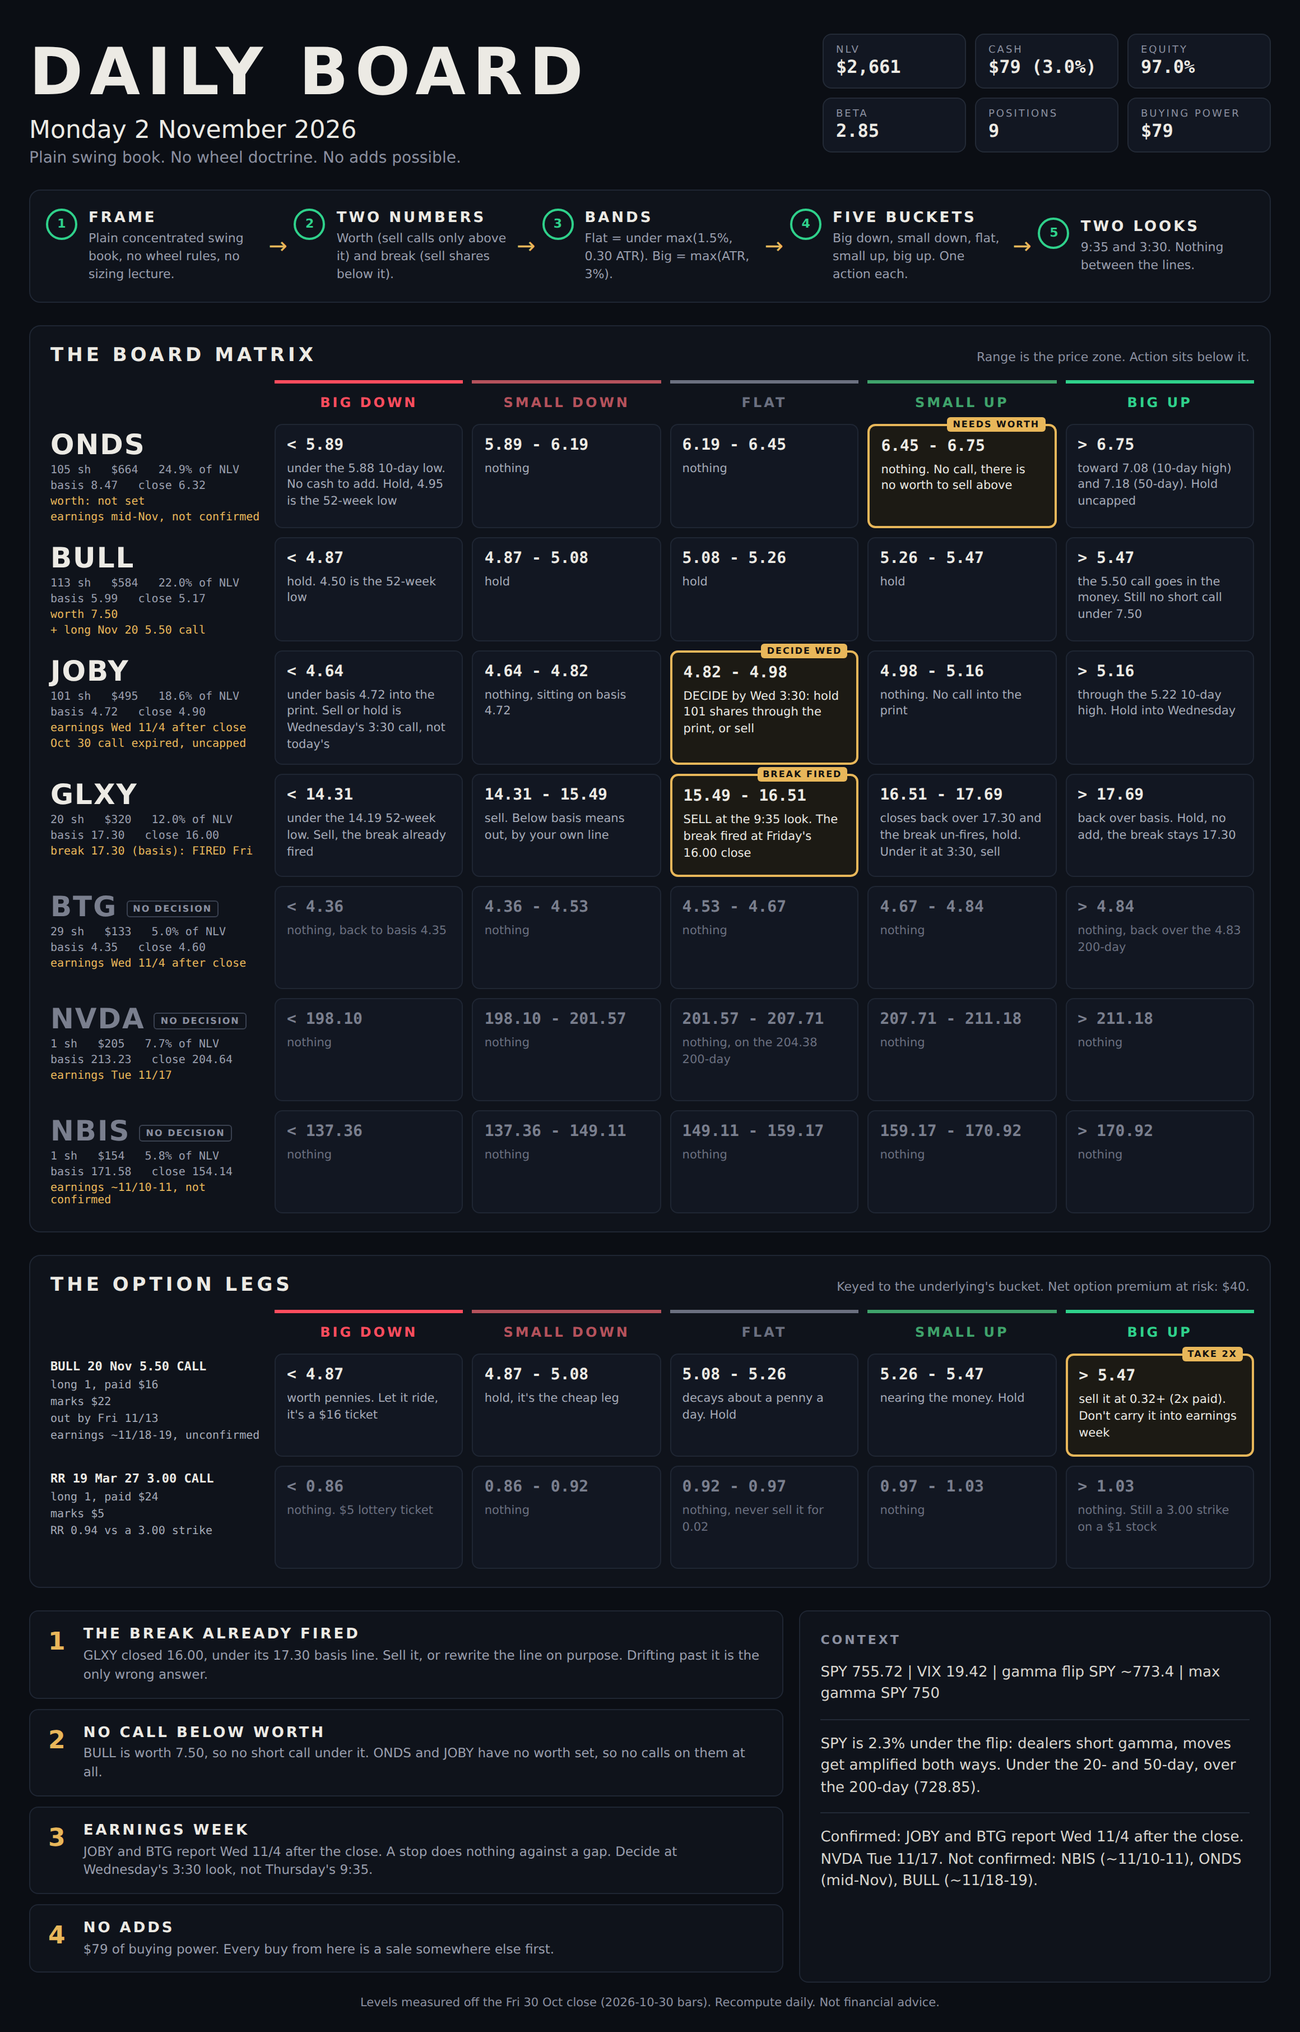
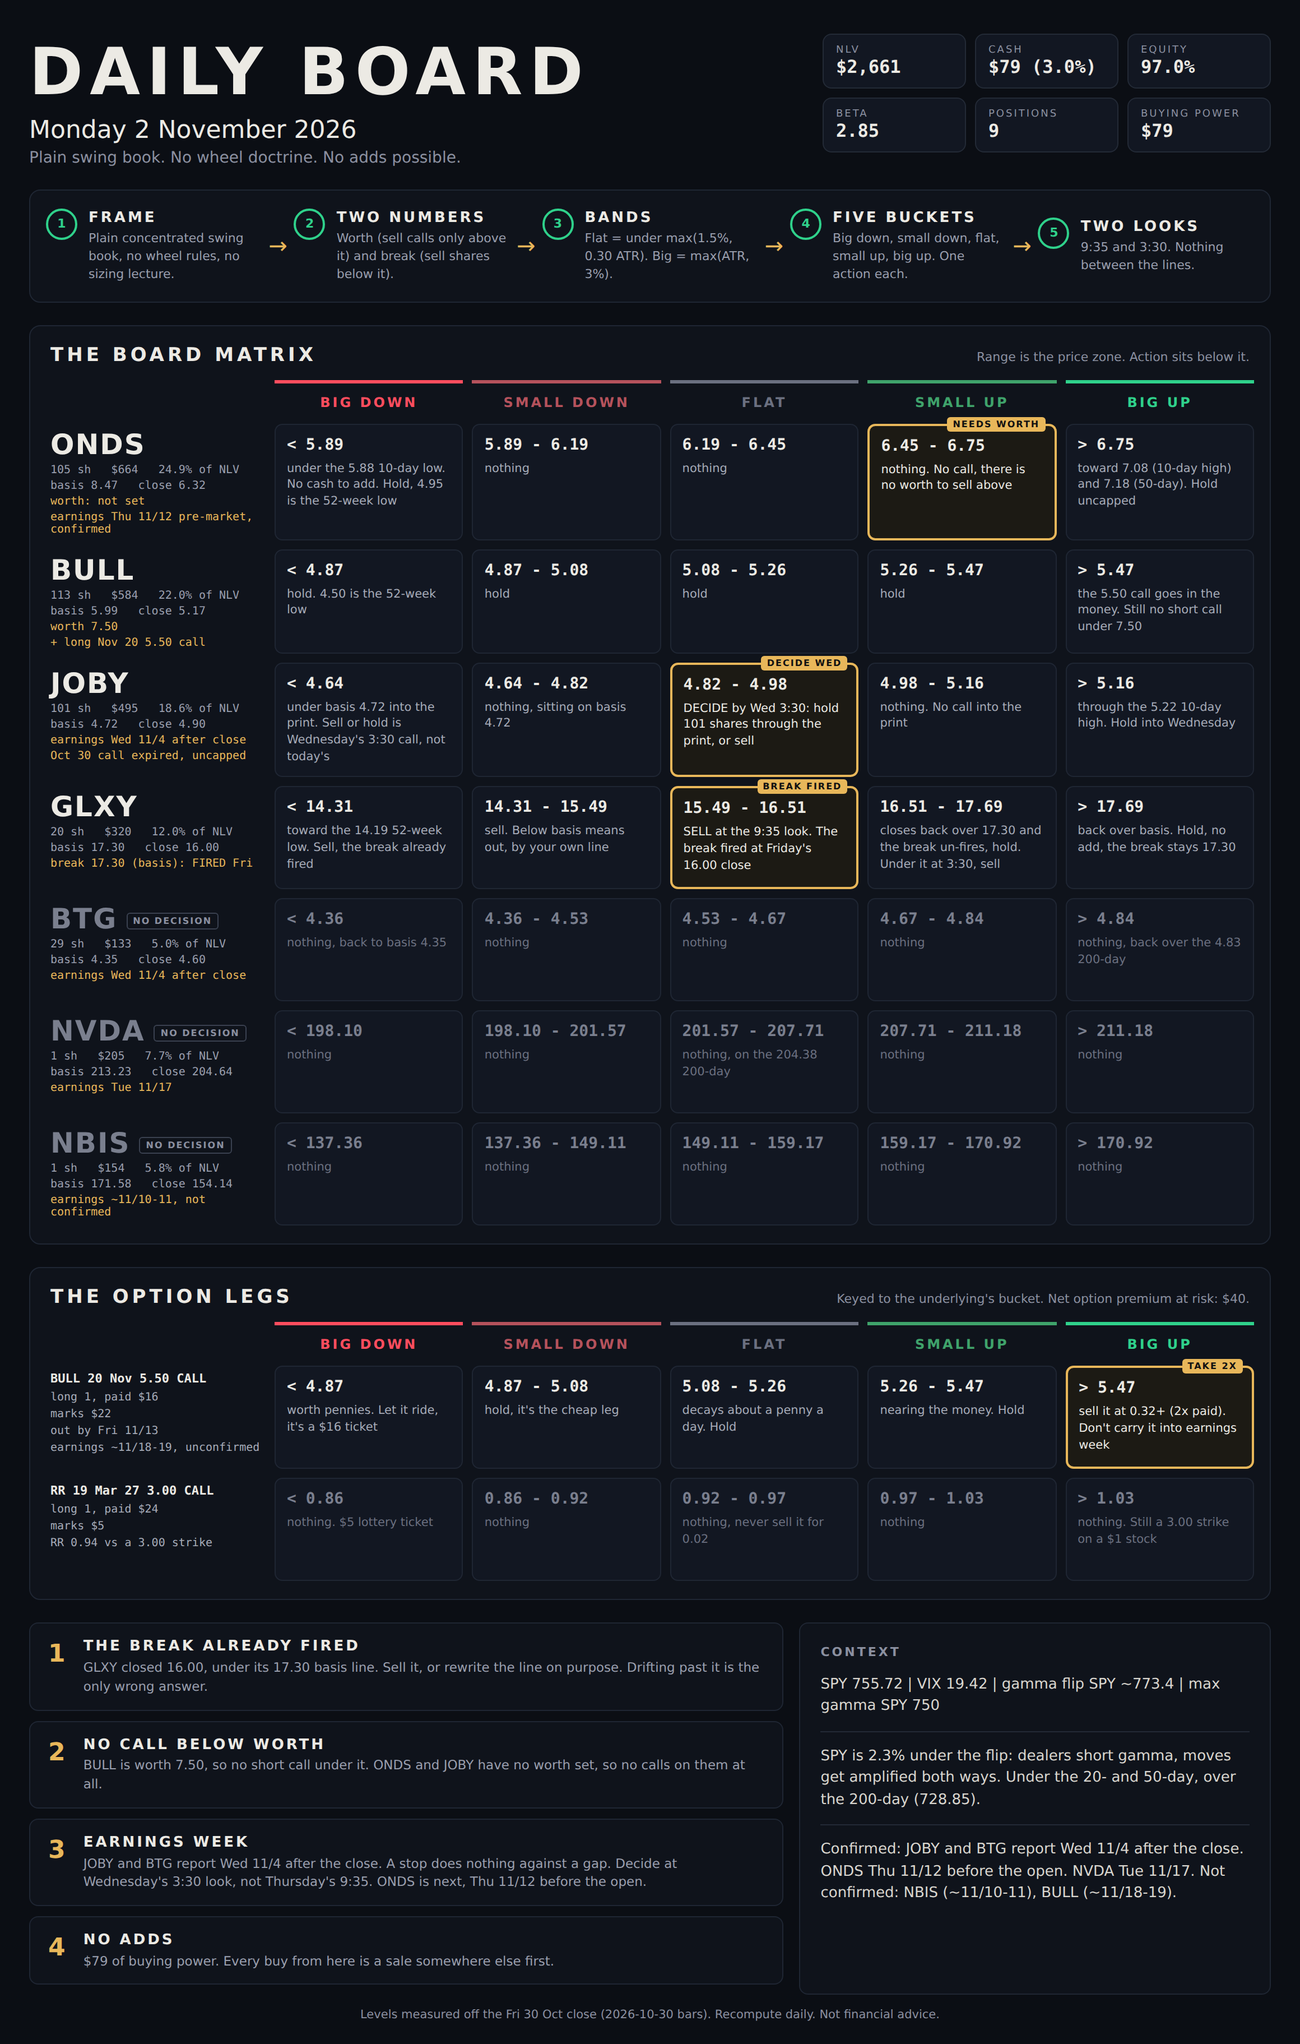
daily_board: Mon 11/02 refresh, ONDS earnings confirmed Thu 11/12 pre-market, GLXY big-down text fixed

diff --git a/data/daily-board/2026-11-02/board.html b/data/daily-board/2026-11-02/board.html
@@ -39,9 +39,9 @@ h1 { font-size: 58px; letter-spacing: 6px; margin: 0; color: #eceae4; font-weigh
 <div class="top"><div><h1>DAILY BOARD</h1><div class="date">Monday 2 November 2026</div><div class="sub">Plain swing book. No wheel doctrine. No adds possible.</div></div><div class="stats"><div class="stat"><span>NLV</span><b>$2,661</b></div><div class="stat"><span>CASH</span><b>$79 (3.0%)</b></div><div class="stat"><span>EQUITY</span><b>97.0%</b></div><div class="stat"><span>BETA</span><b>2.85</b></div><div class="stat"><span>POSITIONS</span><b>9</b></div><div class="stat"><span>BUYING POWER</span><b>$79</b></div></div></div>
 <div class="panel steps"><div class="step"><span class="num">1</span><div><b>FRAME</b><br>Plain concentrated swing book, no wheel rules, no sizing lecture.</div></div><span class="arrow">&rarr;</span><div class="step"><span class="num">2</span><div><b>TWO NUMBERS</b><br>Worth (sell calls only above it) and break (sell shares below it).</div></div><span class="arrow">&rarr;</span><div class="step"><span class="num">3</span><div><b>BANDS</b><br>Flat = under max(1.5%, 0.30 ATR). Big = max(ATR, 3%).</div></div><span class="arrow">&rarr;</span><div class="step"><span class="num">4</span><div><b>FIVE BUCKETS</b><br>Big down, small down, flat, small up, big up. One action each.</div></div><span class="arrow">&rarr;</span><div class="step"><span class="num">5</span><div><b>TWO LOOKS</b><br>9:35 and 3:30. Nothing between the lines.</div></div></div>
 <div class="panel"><div class="ph"><b>THE BOARD MATRIX</b><span>Range is the price zone. Action sits below it.</span></div>
-<div class="grid"><div></div><div class="bh" style="--c:#FF4D5E">BIG DOWN</div><div class="bh" style="--c:#B5525C">SMALL DOWN</div><div class="bh" style="--c:#6B7080">FLAT</div><div class="bh" style="--c:#3FA36B">SMALL UP</div><div class="bh" style="--c:#2FD18B">BIG UP</div><div class="lab"><div class="tk">ONDS</div><div class="meta">105 sh &nbsp; $664 &nbsp; 24.9% of NLV</div><div class="meta">basis 8.47 &nbsp; close 6.32</div><div class="note">worth: not set</div><div class="note">earnings mid-Nov, not confirmed</div></div><div class="cell"><div class="rng">&lt; 5.89</div><div class="act">under the 5.88 10-day low. No cash to add. Hold, 4.95 is the 52-week low</div></div><div class="cell"><div class="rng">5.89 - 6.19</div><div class="act">nothing</div></div><div class="cell"><div class="rng">6.19 - 6.45</div><div class="act">nothing</div></div><div class="cell hl"><span class="flag">NEEDS WORTH</span><div class="rng">6.45 - 6.75</div><div class="act">nothing. No call, there is no worth to sell above</div></div><div class="cell"><div class="rng">&gt; 6.75</div><div class="act">toward 7.08 (10-day high) and 7.18 (50-day). Hold uncapped</div></div><div class="lab"><div class="tk">BULL</div><div class="meta">113 sh &nbsp; $584 &nbsp; 22.0% of NLV</div><div class="meta">basis 5.99 &nbsp; close 5.17</div><div class="note">worth 7.50</div><div class="note">+ long Nov 20 5.50 call</div></div><div class="cell"><div class="rng">&lt; 4.87</div><div class="act">hold. 4.50 is the 52-week low</div></div><div class="cell"><div class="rng">4.87 - 5.08</div><div class="act">hold</div></div><div class="cell"><div class="rng">5.08 - 5.26</div><div class="act">hold</div></div><div class="cell"><div class="rng">5.26 - 5.47</div><div class="act">hold</div></div><div class="cell"><div class="rng">&gt; 5.47</div><div class="act">the 5.50 call goes in the money. Still no short call under 7.50</div></div><div class="lab"><div class="tk">JOBY</div><div class="meta">101 sh &nbsp; $495 &nbsp; 18.6% of NLV</div><div class="meta">basis 4.72 &nbsp; close 4.90</div><div class="note">earnings Wed 11/4 after close</div><div class="note">Oct 30 call expired, uncapped</div></div><div class="cell"><div class="rng">&lt; 4.64</div><div class="act">under basis 4.72 into the print. Sell or hold is Wednesday&#x27;s 3:30 call, not today&#x27;s</div></div><div class="cell"><div class="rng">4.64 - 4.82</div><div class="act">nothing, sitting on basis 4.72</div></div><div class="cell hl"><span class="flag">DECIDE WED</span><div class="rng">4.82 - 4.98</div><div class="act">DECIDE by Wed 3:30: hold 101 shares through the print, or sell</div></div><div class="cell"><div class="rng">4.98 - 5.16</div><div class="act">nothing. No call into the print</div></div><div class="cell"><div class="rng">&gt; 5.16</div><div class="act">through the 5.22 10-day high. Hold into Wednesday</div></div><div class="lab"><div class="tk">GLXY</div><div class="meta">20 sh &nbsp; $320 &nbsp; 12.0% of NLV</div><div class="meta">basis 17.30 &nbsp; close 16.00</div><div class="note">break 17.30 (basis): FIRED Fri</div></div><div class="cell"><div class="rng">&lt; 14.31</div><div class="act">under the 14.19 52-week low. Sell, the break already fired</div></div><div class="cell"><div class="rng">14.31 - 15.49</div><div class="act">sell. Below basis means out, by your own line</div></div><div class="cell hl"><span class="flag">BREAK FIRED</span><div class="rng">15.49 - 16.51</div><div class="act">SELL at the 9:35 look. The break fired at Friday&#x27;s 16.00 close</div></div><div class="cell"><div class="rng">16.51 - 17.69</div><div class="act">closes back over 17.30 and the break un-fires, hold. Under it at 3:30, sell</div></div><div class="cell"><div class="rng">&gt; 17.69</div><div class="act">back over basis. Hold, no add, the break stays 17.30</div></div><div class="lab mute"><div class="tk">BTG<span class="badge">NO DECISION</span></div><div class="meta">29 sh &nbsp; $133 &nbsp; 5.0% of NLV</div><div class="meta">basis 4.35 &nbsp; close 4.60</div><div class="note">earnings Wed 11/4 after close</div></div><div class="cell mute"><div class="rng">&lt; 4.36</div><div class="act">nothing, back to basis 4.35</div></div><div class="cell mute"><div class="rng">4.36 - 4.53</div><div class="act">nothing</div></div><div class="cell mute"><div class="rng">4.53 - 4.67</div><div class="act">nothing</div></div><div class="cell mute"><div class="rng">4.67 - 4.84</div><div class="act">nothing</div></div><div class="cell mute"><div class="rng">&gt; 4.84</div><div class="act">nothing, back over the 4.83 200-day</div></div><div class="lab mute"><div class="tk">NVDA<span class="badge">NO DECISION</span></div><div class="meta">1 sh &nbsp; $205 &nbsp; 7.7% of NLV</div><div class="meta">basis 213.23 &nbsp; close 204.64</div><div class="note">earnings Tue 11/17</div></div><div class="cell mute"><div class="rng">&lt; 198.10</div><div class="act">nothing</div></div><div class="cell mute"><div class="rng">198.10 - 201.57</div><div class="act">nothing</div></div><div class="cell mute"><div class="rng">201.57 - 207.71</div><div class="act">nothing, on the 204.38 200-day</div></div><div class="cell mute"><div class="rng">207.71 - 211.18</div><div class="act">nothing</div></div><div class="cell mute"><div class="rng">&gt; 211.18</div><div class="act">nothing</div></div><div class="lab mute"><div class="tk">NBIS<span class="badge">NO DECISION</span></div><div class="meta">1 sh &nbsp; $154 &nbsp; 5.8% of NLV</div><div class="meta">basis 171.58 &nbsp; close 154.14</div><div class="note">earnings ~11/10-11, not confirmed</div></div><div class="cell mute"><div class="rng">&lt; 137.36</div><div class="act">nothing</div></div><div class="cell mute"><div class="rng">137.36 - 149.11</div><div class="act">nothing</div></div><div class="cell mute"><div class="rng">149.11 - 159.17</div><div class="act">nothing</div></div><div class="cell mute"><div class="rng">159.17 - 170.92</div><div class="act">nothing</div></div><div class="cell mute"><div class="rng">&gt; 170.92</div><div class="act">nothing</div></div></div></div>
+<div class="grid"><div></div><div class="bh" style="--c:#FF4D5E">BIG DOWN</div><div class="bh" style="--c:#B5525C">SMALL DOWN</div><div class="bh" style="--c:#6B7080">FLAT</div><div class="bh" style="--c:#3FA36B">SMALL UP</div><div class="bh" style="--c:#2FD18B">BIG UP</div><div class="lab"><div class="tk">ONDS</div><div class="meta">105 sh &nbsp; $664 &nbsp; 24.9% of NLV</div><div class="meta">basis 8.47 &nbsp; close 6.32</div><div class="note">worth: not set</div><div class="note">earnings Thu 11/12 pre-market, confirmed</div></div><div class="cell"><div class="rng">&lt; 5.89</div><div class="act">under the 5.88 10-day low. No cash to add. Hold, 4.95 is the 52-week low</div></div><div class="cell"><div class="rng">5.89 - 6.19</div><div class="act">nothing</div></div><div class="cell"><div class="rng">6.19 - 6.45</div><div class="act">nothing</div></div><div class="cell hl"><span class="flag">NEEDS WORTH</span><div class="rng">6.45 - 6.75</div><div class="act">nothing. No call, there is no worth to sell above</div></div><div class="cell"><div class="rng">&gt; 6.75</div><div class="act">toward 7.08 (10-day high) and 7.18 (50-day). Hold uncapped</div></div><div class="lab"><div class="tk">BULL</div><div class="meta">113 sh &nbsp; $584 &nbsp; 22.0% of NLV</div><div class="meta">basis 5.99 &nbsp; close 5.17</div><div class="note">worth 7.50</div><div class="note">+ long Nov 20 5.50 call</div></div><div class="cell"><div class="rng">&lt; 4.87</div><div class="act">hold. 4.50 is the 52-week low</div></div><div class="cell"><div class="rng">4.87 - 5.08</div><div class="act">hold</div></div><div class="cell"><div class="rng">5.08 - 5.26</div><div class="act">hold</div></div><div class="cell"><div class="rng">5.26 - 5.47</div><div class="act">hold</div></div><div class="cell"><div class="rng">&gt; 5.47</div><div class="act">the 5.50 call goes in the money. Still no short call under 7.50</div></div><div class="lab"><div class="tk">JOBY</div><div class="meta">101 sh &nbsp; $495 &nbsp; 18.6% of NLV</div><div class="meta">basis 4.72 &nbsp; close 4.90</div><div class="note">earnings Wed 11/4 after close</div><div class="note">Oct 30 call expired, uncapped</div></div><div class="cell"><div class="rng">&lt; 4.64</div><div class="act">under basis 4.72 into the print. Sell or hold is Wednesday&#x27;s 3:30 call, not today&#x27;s</div></div><div class="cell"><div class="rng">4.64 - 4.82</div><div class="act">nothing, sitting on basis 4.72</div></div><div class="cell hl"><span class="flag">DECIDE WED</span><div class="rng">4.82 - 4.98</div><div class="act">DECIDE by Wed 3:30: hold 101 shares through the print, or sell</div></div><div class="cell"><div class="rng">4.98 - 5.16</div><div class="act">nothing. No call into the print</div></div><div class="cell"><div class="rng">&gt; 5.16</div><div class="act">through the 5.22 10-day high. Hold into Wednesday</div></div><div class="lab"><div class="tk">GLXY</div><div class="meta">20 sh &nbsp; $320 &nbsp; 12.0% of NLV</div><div class="meta">basis 17.30 &nbsp; close 16.00</div><div class="note">break 17.30 (basis): FIRED Fri</div></div><div class="cell"><div class="rng">&lt; 14.31</div><div class="act">toward the 14.19 52-week low. Sell, the break already fired</div></div><div class="cell"><div class="rng">14.31 - 15.49</div><div class="act">sell. Below basis means out, by your own line</div></div><div class="cell hl"><span class="flag">BREAK FIRED</span><div class="rng">15.49 - 16.51</div><div class="act">SELL at the 9:35 look. The break fired at Friday&#x27;s 16.00 close</div></div><div class="cell"><div class="rng">16.51 - 17.69</div><div class="act">closes back over 17.30 and the break un-fires, hold. Under it at 3:30, sell</div></div><div class="cell"><div class="rng">&gt; 17.69</div><div class="act">back over basis. Hold, no add, the break stays 17.30</div></div><div class="lab mute"><div class="tk">BTG<span class="badge">NO DECISION</span></div><div class="meta">29 sh &nbsp; $133 &nbsp; 5.0% of NLV</div><div class="meta">basis 4.35 &nbsp; close 4.60</div><div class="note">earnings Wed 11/4 after close</div></div><div class="cell mute"><div class="rng">&lt; 4.36</div><div class="act">nothing, back to basis 4.35</div></div><div class="cell mute"><div class="rng">4.36 - 4.53</div><div class="act">nothing</div></div><div class="cell mute"><div class="rng">4.53 - 4.67</div><div class="act">nothing</div></div><div class="cell mute"><div class="rng">4.67 - 4.84</div><div class="act">nothing</div></div><div class="cell mute"><div class="rng">&gt; 4.84</div><div class="act">nothing, back over the 4.83 200-day</div></div><div class="lab mute"><div class="tk">NVDA<span class="badge">NO DECISION</span></div><div class="meta">1 sh &nbsp; $205 &nbsp; 7.7% of NLV</div><div class="meta">basis 213.23 &nbsp; close 204.64</div><div class="note">earnings Tue 11/17</div></div><div class="cell mute"><div class="rng">&lt; 198.10</div><div class="act">nothing</div></div><div class="cell mute"><div class="rng">198.10 - 201.57</div><div class="act">nothing</div></div><div class="cell mute"><div class="rng">201.57 - 207.71</div><div class="act">nothing, on the 204.38 200-day</div></div><div class="cell mute"><div class="rng">207.71 - 211.18</div><div class="act">nothing</div></div><div class="cell mute"><div class="rng">&gt; 211.18</div><div class="act">nothing</div></div><div class="lab mute"><div class="tk">NBIS<span class="badge">NO DECISION</span></div><div class="meta">1 sh &nbsp; $154 &nbsp; 5.8% of NLV</div><div class="meta">basis 171.58 &nbsp; close 154.14</div><div class="note">earnings ~11/10-11, not confirmed</div></div><div class="cell mute"><div class="rng">&lt; 137.36</div><div class="act">nothing</div></div><div class="cell mute"><div class="rng">137.36 - 149.11</div><div class="act">nothing</div></div><div class="cell mute"><div class="rng">149.11 - 159.17</div><div class="act">nothing</div></div><div class="cell mute"><div class="rng">159.17 - 170.92</div><div class="act">nothing</div></div><div class="cell mute"><div class="rng">&gt; 170.92</div><div class="act">nothing</div></div></div></div>
 <div class="panel"><div class="ph"><b>THE OPTION LEGS</b><span>Keyed to the underlying's bucket. Net option premium at risk: $40.</span></div>
 <div class="grid"><div></div><div class="bh" style="--c:#FF4D5E">BIG DOWN</div><div class="bh" style="--c:#B5525C">SMALL DOWN</div><div class="bh" style="--c:#6B7080">FLAT</div><div class="bh" style="--c:#3FA36B">SMALL UP</div><div class="bh" style="--c:#2FD18B">BIG UP</div><div class="olab"><b>BULL 20 Nov 5.50 CALL</b><br>long 1, paid $16<br>marks $22<br>out by Fri 11/13<br>earnings ~11/18-19, unconfirmed</div><div class="cell"><div class="rng">&lt; 4.87</div><div class="act">worth pennies. Let it ride, it&#x27;s a $16 ticket</div></div><div class="cell"><div class="rng">4.87 - 5.08</div><div class="act">hold, it&#x27;s the cheap leg</div></div><div class="cell"><div class="rng">5.08 - 5.26</div><div class="act">decays about a penny a day. Hold</div></div><div class="cell"><div class="rng">5.26 - 5.47</div><div class="act">nearing the money. Hold</div></div><div class="cell hl"><span class="flag">TAKE 2X</span><div class="rng">&gt; 5.47</div><div class="act">sell it at 0.32+ (2x paid). Don&#x27;t carry it into earnings week</div></div><div class="olab"><b>RR 19 Mar 27 3.00 CALL</b><br>long 1, paid $24<br>marks $5<br>RR 0.94 vs a 3.00 strike</div><div class="cell mute"><div class="rng">&lt; 0.86</div><div class="act">nothing. $5 lottery ticket</div></div><div class="cell mute"><div class="rng">0.86 - 0.92</div><div class="act">nothing</div></div><div class="cell mute"><div class="rng">0.92 - 0.97</div><div class="act">nothing, never sell it for 0.02</div></div><div class="cell mute"><div class="rng">0.97 - 1.03</div><div class="act">nothing</div></div><div class="cell mute"><div class="rng">&gt; 1.03</div><div class="act">nothing. Still a 3.00 strike on a $1 stock</div></div></div></div>
-<div class="bottom"><div><div class="rule"><span class="rn">1</span><div><b>THE BREAK ALREADY FIRED</b><br>GLXY closed 16.00, under its 17.30 basis line. Sell it, or rewrite the line on purpose. Drifting past it is the only wrong answer.</div></div><div class="rule"><span class="rn">2</span><div><b>NO CALL BELOW WORTH</b><br>BULL is worth 7.50, so no short call under it. ONDS and JOBY have no worth set, so no calls on them at all.</div></div><div class="rule"><span class="rn">3</span><div><b>EARNINGS WEEK</b><br>JOBY and BTG report Wed 11/4 after the close. A stop does nothing against a gap. Decide at Wednesday&#x27;s 3:30 look, not Thursday&#x27;s 9:35.</div></div><div class="rule"><span class="rn">4</span><div><b>NO ADDS</b><br>$79 of buying power. Every buy from here is a sale somewhere else first.</div></div></div><div class="ctx"><h4>CONTEXT</h4><p>SPY 755.72 | VIX 19.42 | gamma flip SPY ~773.4 | max gamma SPY 750</p><hr><p>SPY is 2.3% under the flip: dealers short gamma, moves get amplified both ways. Under the 20- and 50-day, over the 200-day (728.85).</p><hr><p>Confirmed: JOBY and BTG report Wed 11/4 after the close. NVDA Tue 11/17. Not confirmed: NBIS (~11/10-11), ONDS (mid-Nov), BULL (~11/18-19).</p></div></div>
+<div class="bottom"><div><div class="rule"><span class="rn">1</span><div><b>THE BREAK ALREADY FIRED</b><br>GLXY closed 16.00, under its 17.30 basis line. Sell it, or rewrite the line on purpose. Drifting past it is the only wrong answer.</div></div><div class="rule"><span class="rn">2</span><div><b>NO CALL BELOW WORTH</b><br>BULL is worth 7.50, so no short call under it. ONDS and JOBY have no worth set, so no calls on them at all.</div></div><div class="rule"><span class="rn">3</span><div><b>EARNINGS WEEK</b><br>JOBY and BTG report Wed 11/4 after the close. A stop does nothing against a gap. Decide at Wednesday&#x27;s 3:30 look, not Thursday&#x27;s 9:35. ONDS is next, Thu 11/12 before the open.</div></div><div class="rule"><span class="rn">4</span><div><b>NO ADDS</b><br>$79 of buying power. Every buy from here is a sale somewhere else first.</div></div></div><div class="ctx"><h4>CONTEXT</h4><p>SPY 755.72 | VIX 19.42 | gamma flip SPY ~773.4 | max gamma SPY 750</p><hr><p>SPY is 2.3% under the flip: dealers short gamma, moves get amplified both ways. Under the 20- and 50-day, over the 200-day (728.85).</p><hr><p>Confirmed: JOBY and BTG report Wed 11/4 after the close. ONDS Thu 11/12 before the open. NVDA Tue 11/17. Not confirmed: NBIS (~11/10-11), BULL (~11/18-19).</p></div></div>
 <div class="foot">Levels measured off the Fri 30 Oct close (2026-10-30 bars). Recompute daily. Not financial advice.</div>
 </div></body></html>
